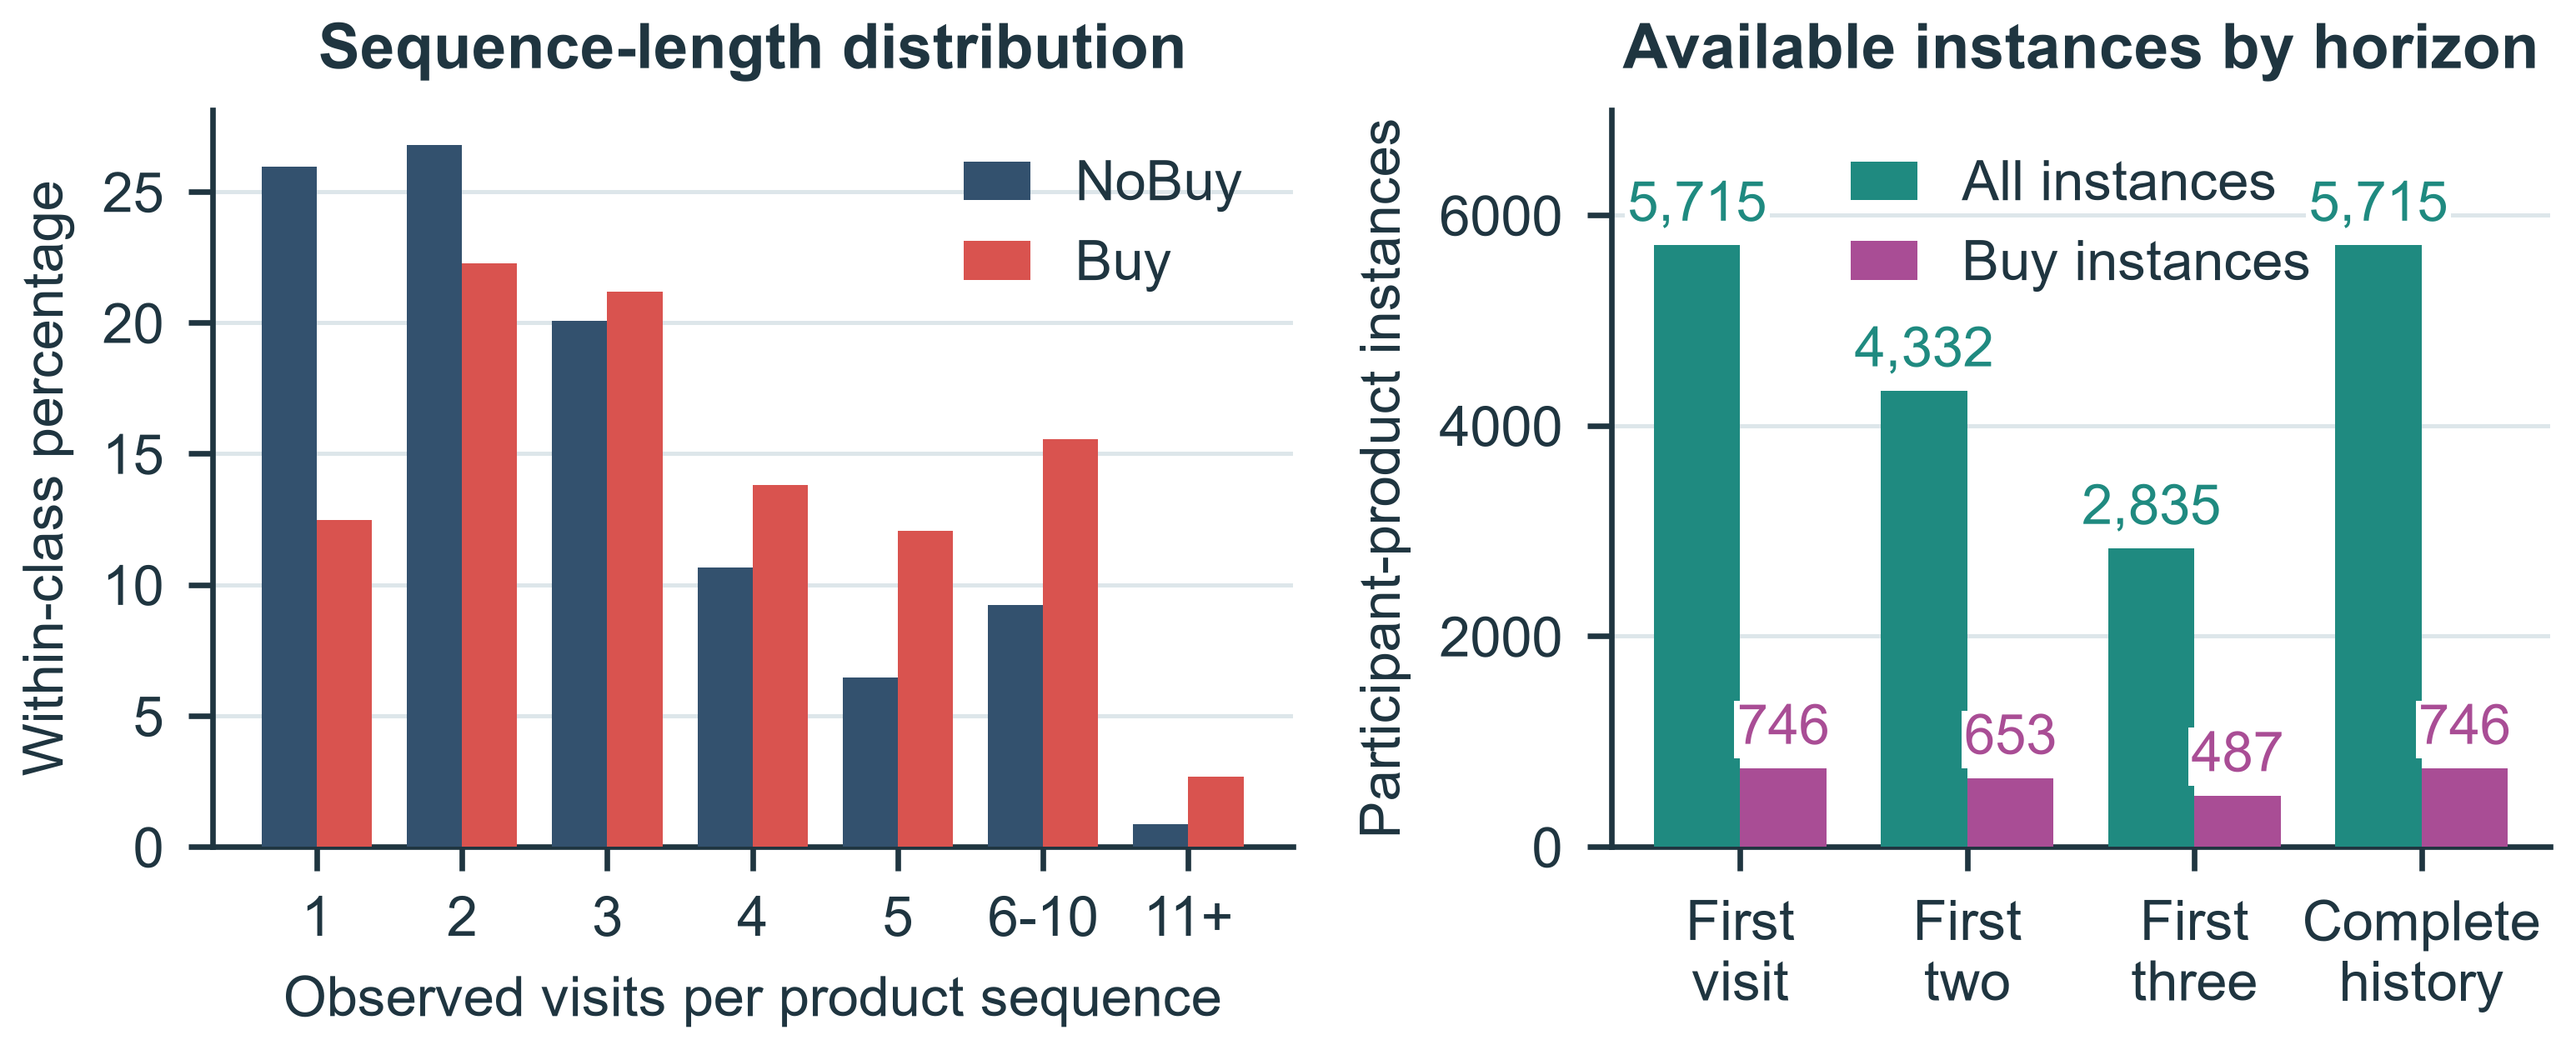
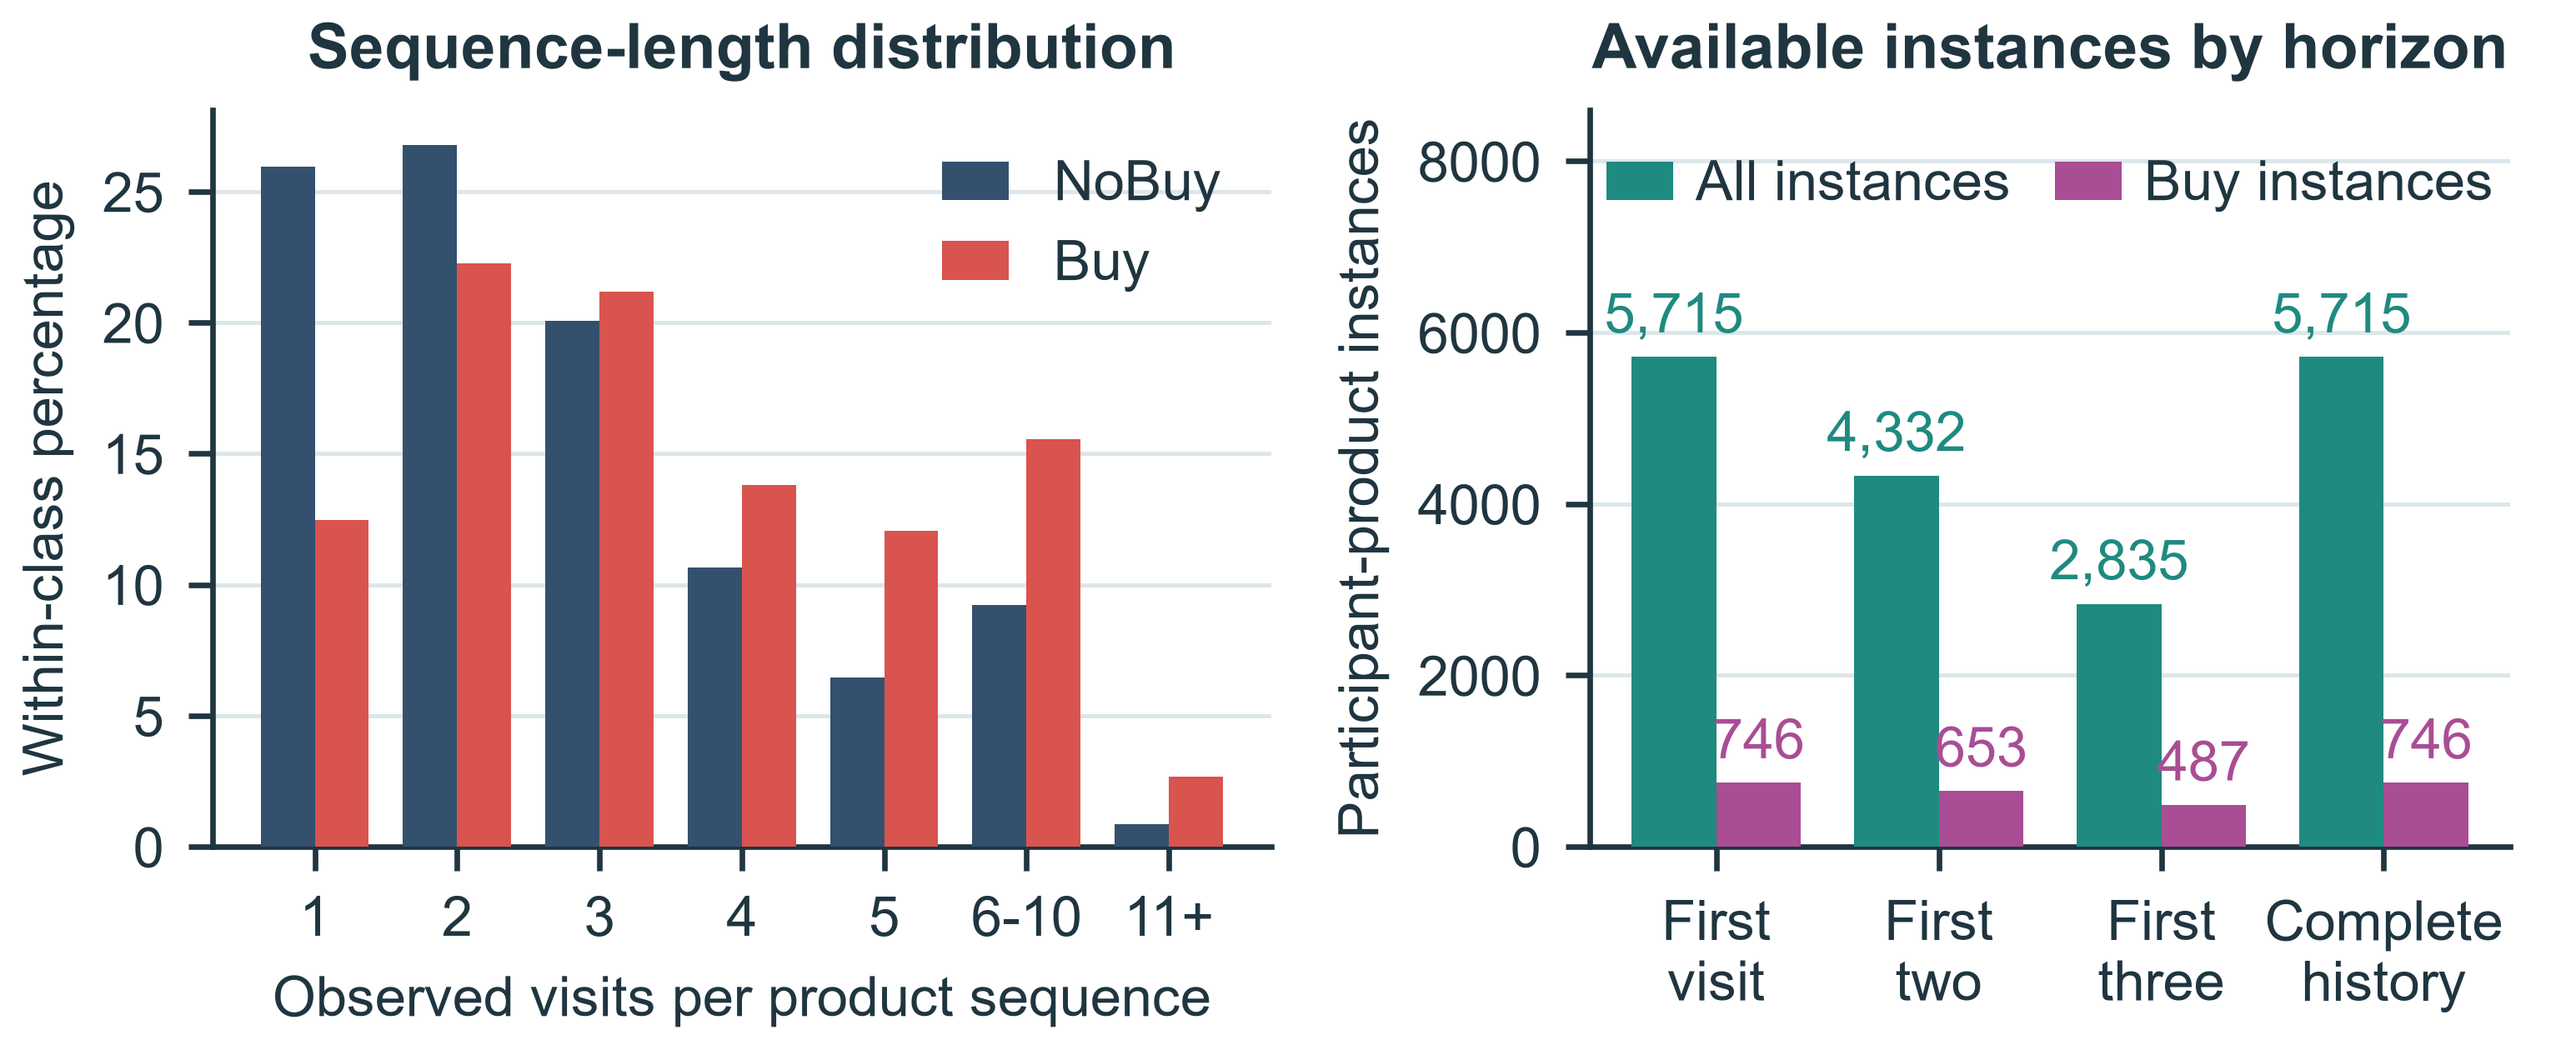
v31: Fig 1 value labels no longer overlap bars

diff --git a/camera_ready/scripts/v6/figures_8pt/make_fig1.py b/camera_ready/scripts/v6/figures_8pt/make_fig1.py
@@ -21,10 +21,10 @@ hz = ['First\nvisit', 'First\ntwo', 'First\nthree', 'Complete\nhistory']; alln =
 x = np.arange(4)
 bx.bar(x - w/2, alln, w, color=TEAL_HEX, label='All instances', zorder=3); bx.bar(x + w/2, buy, w, color=PINK_HEX, label='Buy instances', zorder=3)
 for i in range(4):
-    bx.text(x[i] - w/2, alln[i] + 120, f'{alln[i]:,}', ha='center', va='bottom', fontsize=8, color=TEAL_HEX, bbox=dict(fc='white', ec='none', pad=0.4))
-    bx.text(x[i] + w/2, buy[i] + 120, f'{buy[i]:,}', ha='center', va='bottom', fontsize=8, color=PINK_HEX, bbox=dict(fc='white', ec='none', pad=0.4))
-bx.set_xticks(x); bx.set_xticklabels(hz); bx.set_ylabel('Participant-product instances'); bx.set_ylim(0, 7000)
-bx.set_title('Available instances by horizon', fontweight='bold'); bx.legend(frameon=False, handlelength=1.2, loc='upper center')
+    bx.text(x[i] - w/2, alln[i] + 150, f'{alln[i]:,}', ha='center', va='bottom', fontsize=8, color=TEAL_HEX)
+    bx.text(x[i] + w/2, buy[i] + 150, f'{buy[i]:,}', ha='center', va='bottom', fontsize=8, color=PINK_HEX)
+bx.set_xticks(x); bx.set_xticklabels(hz); bx.set_ylabel('Participant-product instances'); bx.set_ylim(0, 8600)
+bx.set_title('Available instances by horizon', fontweight='bold'); bx.legend(frameon=False, handlelength=1.2, loc='upper center', ncol=2, columnspacing=0.8, handletextpad=0.4)
 bx.spines[['top', 'right']].set_visible(False); bx.grid(axis='y', color='#DDE6EA', lw=0.6, zorder=0); bx.set_axisbelow(True)
 fig.tight_layout(pad=0.4, w_pad=1.2)
 fig.savefig(os.path.join(OUT, 'fig1.png'), dpi=600); print('fig1 done', ct.round(1).to_dict())
